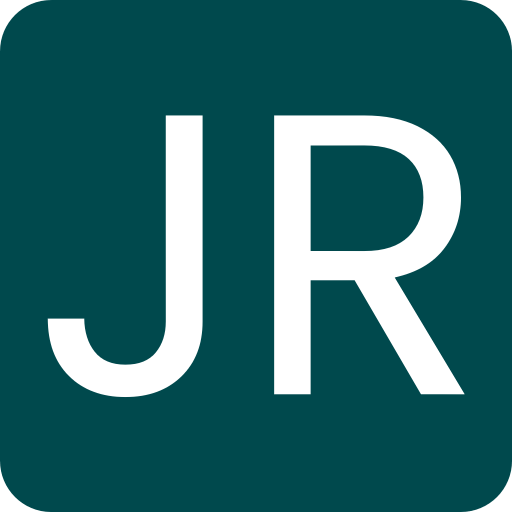
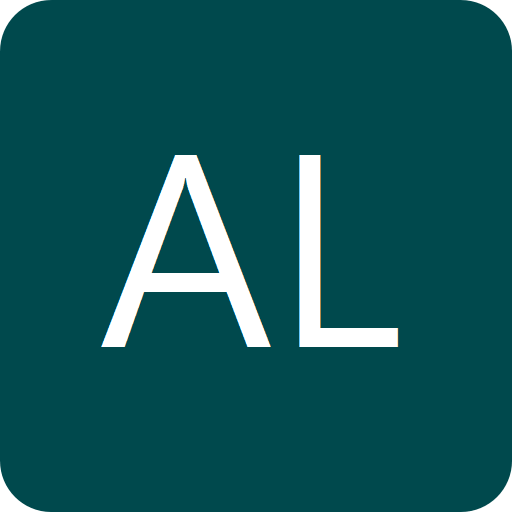
andrew

Changed region(s): [[0.0938, 0.2188, 0.9062, 0.7812]]

diff --git a/public/index.html b/public/index.html
@@ -8,7 +8,7 @@
       name="description"
       content="Splitter: a React-powered tip calculator web application."
     />
-    <meta name="author" content="Jon Rutter" />
+    <meta name="author" content="Andrew Lupin" />
 
     <!-- Google Fonts -->
     <link rel="preconnect" href="https://fonts.googleapis.com" />
@@ -19,7 +19,7 @@
     />
 
     <!-- Favicon -->
-    <link rel="icon" href="%PUBLIC_URL%/favicon.ico" />
+    <link rel="icon" href="%PUBLIC_URL%/favicon.png" />
     <link rel="icon" type="image/png" href="%PUBLIC_URL%/favicon-32x32.png" />
     <link rel="icon" type="image/png" href="%PUBLIC_URL%/favicon-16x16.png" />
     <link rel="apple-touch-icon" href="%PUBLIC_URL%/apple-touch-icon.png" />

diff --git a/README.md b/README.md
@@ -4,8 +4,8 @@ This is a solution to the [Tip calculator app challenge on Frontend Mentor](http
 
 ## Table of contents
 
-- [Description](#Description)
-- [Built with](##built-with)
+- [Description](#description)
+- [Built with](#built-with)
 - [Author](#author)
 
 ## Description
